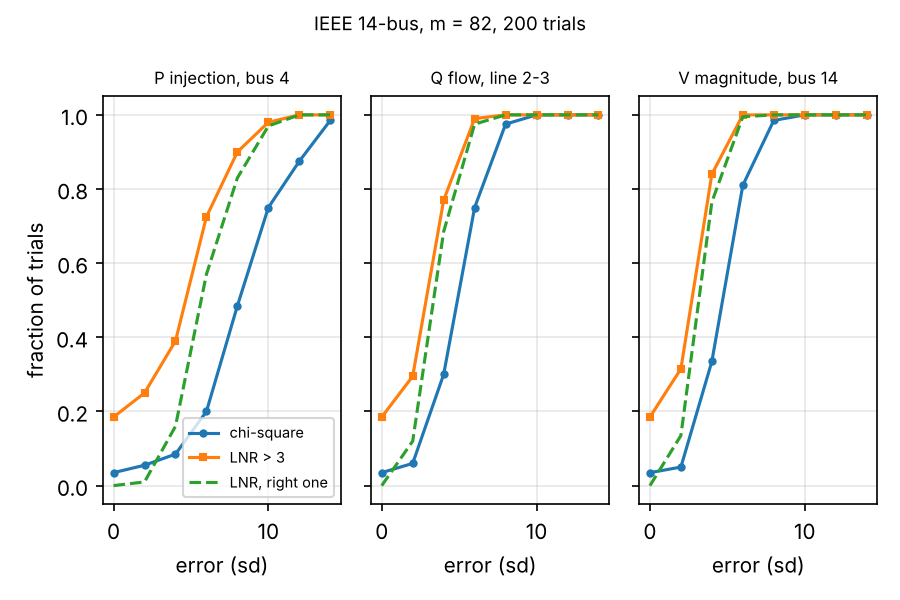
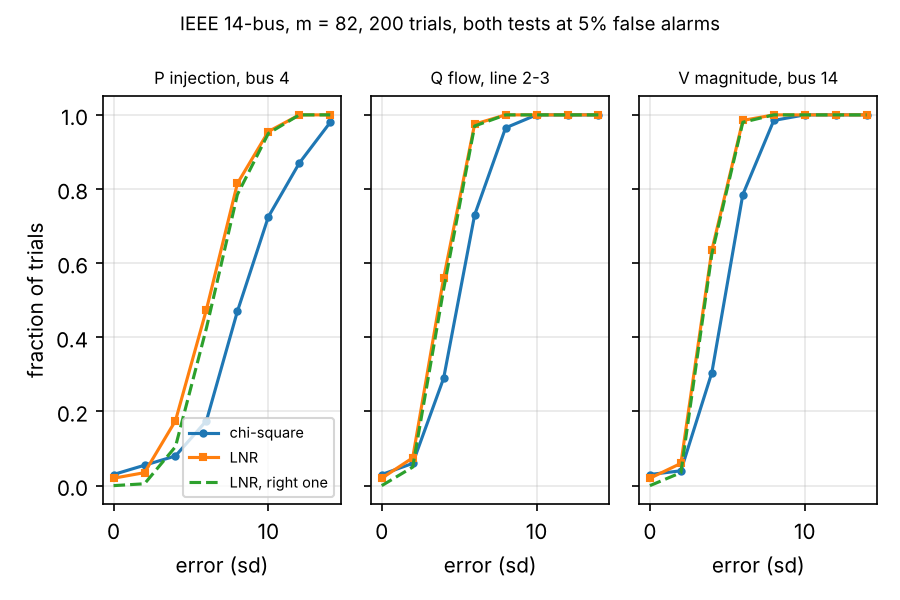
Compare chi-square and LNR at matched false alarm rate
detection_rate.py now sets both thresholds to the 95% point of 1000
clean draws before the sweep. LNR stays ahead, by less than the first
run suggested at k = 4-6.

diff --git a/experiments/detection_rate.py b/experiments/detection_rate.py
@@ -1,17 +1,21 @@
 """Monte Carlo detection rate of the chi-square and LNR tests against k.
 
-    python experiments/detection_rate.py [--trials 200] [--seed 0]
+    python experiments/detection_rate.py [--trials 200] [--calib 1000] [--seed 0]
+
+Both tests are first set to the same false alarm rate. A separate run of
+--calib noise draws with no bad data gives the 95th percentile of J(x) and
+of the largest normalised residual, and those are the thresholds used.
+The textbook values (chi-square 95% point, Sidak LNR threshold) are
+printed next to them.
 
 For each trial a fresh noise draw is made. The same draw is used for k = 0
-(no bad data, which gives the false alarm rate) and for an error of k
-standard deviations on each of the three targets from gross_error.py, so
-the two tests and the three targets are compared on common noise.
-
-A trial counts as detected by chi-square when J(x) is above the 95%
-threshold, and by LNR when the largest normalised residual is above 3.
-LNR also counts as identified when that largest one is the measurement
-carrying the error. Writes figures/detection_rate.png and prints the
-table behind it. About 10 minutes for 200 trials.
+(no bad data, which checks the false alarm rate on new noise) and for an
+error of k standard deviations on each of the three targets from
+gross_error.py, so the two tests and the three targets are compared on
+common noise. LNR also counts as identified when the largest normalised
+residual is the measurement carrying the error. Writes
+figures/detection_rate.png and prints the table behind it. About 17
+minutes with the defaults.
 """
 
 import argparse
@@ -27,14 +31,14 @@ import pandas as pd
 
 from gridbad.chi2 import chi2_threshold
 from gridbad.measurements import add_noise, full_measurement_set, load_measurements
-from gridbad.residuals import normalised_residuals
+from gridbad.residuals import normalised_residuals, sidak_lnr_threshold
 from gridbad.wls import estimate
 
 warnings.filterwarnings("ignore", category=FutureWarning)
 warnings.filterwarnings("ignore", category=pd.errors.SettingWithCopyWarning)
 
 CASE14 = pn.case14()
-LNR_THRESHOLD = 3.0
+ALPHA = 0.05
 KS = (2, 4, 6, 8, 10, 12, 14)
 # (meas_type, element_type, element) as in gross_error.py
 TARGETS = {
@@ -51,18 +55,17 @@ def run(meas):
     return estimate(net)
 
 
-def outcome(res, thr, target_label=None):
-    """(chi-square flag, LNR flag, LNR picked the target) for one estimate."""
+def stats(res, target_label=None):
+    """(J, largest normalised residual, whether it is the target)."""
     rn = normalised_residuals(res)
     i = np.nanargmax(rn)
-    lnr = rn[i] > LNR_THRESHOLD
-    picked = lnr and target_label is not None and res.meas_index[i] == target_label
-    return res.J > thr, lnr, picked
+    return res.J, rn[i], res.meas_index[i] == target_label
 
 
 def main():
     ap = argparse.ArgumentParser()
     ap.add_argument("--trials", type=int, default=200)
+    ap.add_argument("--calib", type=int, default=1000)
     ap.add_argument("--seed", type=int, default=0)
     args = ap.parse_args()
 
@@ -73,23 +76,46 @@ def main():
     for name, (mt, et, el) in TARGETS.items():
         mask = (base.meas_type == mt) & (base.element_type == et) & (base.element == el)
         labels[name] = base.index[mask][0]
-    thr = chi2_threshold(len(base), 2 * len(truth.bus) - 1)
+    n_meas, n_states = len(base), 2 * len(truth.bus) - 1
+
+    # calibration draws come from their own stream, so the test trials
+    # below are the same noise as in the uncalibrated sweep for one seed
+    calib_rng = np.random.default_rng([args.seed, 1])
+    calib = np.array(
+        [stats(run(add_noise(base, calib_rng)))[:2] for _ in range(args.calib)]
+    )
+    thr_j, thr_rn = np.quantile(calib, 1 - ALPHA, axis=0)
+    print(f"{args.calib} calibration draws, {1 - ALPHA:.0%} points:")
+    print(
+        f"  J(x)   {thr_j:5.1f}  (chi-square, m - n = {n_meas - n_states}: "
+        f"{chi2_threshold(n_meas, n_states, 1 - ALPHA):.1f})"
+    )
+    print(
+        f"  max rN {thr_rn:5.2f}  (Sidak, m = {n_meas}: "
+        f"{sidak_lnr_threshold(n_meas, ALPHA):.2f})"
+    )
+    print()
 
     rng = np.random.default_rng(args.seed)
-    clean = np.zeros((args.trials, 3), dtype=bool)
-    hits = np.zeros((len(TARGETS), len(KS), args.trials, 3), dtype=bool)
+    clean = np.zeros((args.trials, 3))
+    hits = np.zeros((len(TARGETS), len(KS), args.trials, 3))
     for t in range(args.trials):
         meas = add_noise(base, rng)
-        clean[t] = outcome(run(meas), thr)
+        clean[t] = stats(run(meas))
         for a, label in enumerate(labels.values()):
             for b, k in enumerate(KS):
                 bad = meas.copy()
                 bad.loc[label, "value"] += k * bad.loc[label, "std_dev"]
-                hits[a, b, t] = outcome(run(bad), thr, label)
+                hits[a, b, t] = stats(run(bad), label)
 
-    fa = clean.mean(axis=0)
-    rate = hits.mean(axis=2)
-    print(f"{args.trials} trials, seed {args.seed}, chi-square threshold {thr:.1f}")
+    def flags(x):
+        chi = x[..., 0] > thr_j
+        lnr = x[..., 1] > thr_rn
+        return np.stack([chi, lnr, lnr & (x[..., 2] > 0)], axis=-1)
+
+    fa = flags(clean).mean(axis=0)
+    rate = flags(hits).mean(axis=2)
+    print(f"{args.trials} trials, seed {args.seed}")
     print(f"false alarms at k = 0: chi-square {fa[0]:.3f}, LNR {fa[1]:.3f}")
     print()
     print(f"{'':<20} {'k':>3}  chi2   LNR  LNR right")
@@ -102,14 +128,18 @@ def main():
     fig, axes = plt.subplots(1, len(TARGETS), figsize=(6, 4), sharey=True)
     for a, (ax, name) in enumerate(zip(axes, TARGETS)):
         ax.plot(ks, [fa[0], *rate[a, :, 0]], "o-", ms=3, label="chi-square")
-        ax.plot(ks, [fa[1], *rate[a, :, 1]], "s-", ms=3, label="LNR > 3")
+        ax.plot(ks, [fa[1], *rate[a, :, 1]], "s-", ms=3, label="LNR")
         ax.plot(ks, [0.0, *rate[a, :, 2]], "--", label="LNR, right one")
         ax.set_title(name, fontsize=8)
         ax.set_xlabel("error (sd)")
         ax.grid(alpha=0.3)
     axes[0].set_ylabel("fraction of trials")
     axes[0].legend(fontsize=7, loc="lower right")
-    fig.suptitle(f"IEEE 14-bus, m = {len(base)}, {args.trials} trials", fontsize=9)
+    fig.suptitle(
+        f"IEEE 14-bus, m = {n_meas}, {args.trials} trials, "
+        f"both tests at {ALPHA:.0%} false alarms",
+        fontsize=9,
+    )
     fig.tight_layout()
     FIG.parent.mkdir(exist_ok=True)
     fig.savefig(FIG, dpi=150)

diff --git a/NOTES.md b/NOTES.md
@@ -99,3 +99,42 @@ To compare at the same false alarm rate, the LNR threshold for 5% overall
 is about 3.42 if the 82 residuals were independent (per-measurement
 two-sided alpha 0.05/82). They are correlated through S, so the real
 value is a little lower; it should come from the k = 0 runs instead.
+
+## 2026-11-21
+
+Calibrated both thresholds on 1000 clean noise draws (separate stream from
+the test trials) and reran the sweep at matched false alarm rates
+(experiments/detection_rate.py, figures/detection_rate.png redrawn):
+
+```
+95% point of J(x)     74.1   (chi-square table, 55 dof: 73.3)
+95% point of max r_N  3.45   (Sidak, 82 independent residuals: 3.42)
+```
+
+I expected the empirical LNR value to come out below 3.42, since the
+correlation through S should make the maximum a bit smaller than for
+independent residuals. It came out 0.03 above. With 1000 draws the 95%
+point is not pinned down that finely, so all this says is that the
+correlation effect is small here and the Sidak value is a fair default.
+On the 200 test trials the false alarm rates were 0.030 (chi-square) and
+0.020 (LNR), both a little under 0.05 but within about two binomial
+standard deviations of it.
+
+At matched rates, fraction of trials flagged:
+
+```
+                       k    2     4     6     8    10
+P injection, bus 4  chi2  0.06  0.08  0.17  0.47  0.72
+                    LNR   0.04  0.17  0.47  0.81  0.95
+Q flow, line 2-3    chi2  0.06  0.29  0.73  0.96  1.00
+                    LNR   0.07  0.56  0.97  1.00  1.00
+V magnitude, bus 14 chi2  0.04  0.30  0.79  0.98  1.00
+                    LNR   0.06  0.64  0.98  1.00  1.00
+```
+
+So the lead LNR had on 2026-11-20 holds after the false alarm correction;
+the old numbers at k = 4-6 were inflated, the bus 4 gap is not. Reading the
+0.5 crossing off by linear interpolation, LNR gets there about 1.2 sd
+earlier than chi-square on the flow and voltage, and about 2 sd earlier
+on the bus 4 injection. When LNR fires it nearly
+always names the right measurement (0.79 of 0.81 at k = 8 on bus 4).

diff --git a/README.md b/README.md
@@ -15,7 +15,8 @@ python experiments/gross_error.py
 ```
 
 `python experiments/detection_rate.py` repeats this over 200 noise draws
-for a range of error sizes and plots how often each test fires
-(figures/detection_rate.png, about 10 minutes).
+for a range of error sizes and plots how often each test fires, with both
+thresholds set to 5% false alarms on a separate set of clean draws
+(figures/detection_rate.png, about 17 minutes).
 
 NOTES.md has the results so far.
